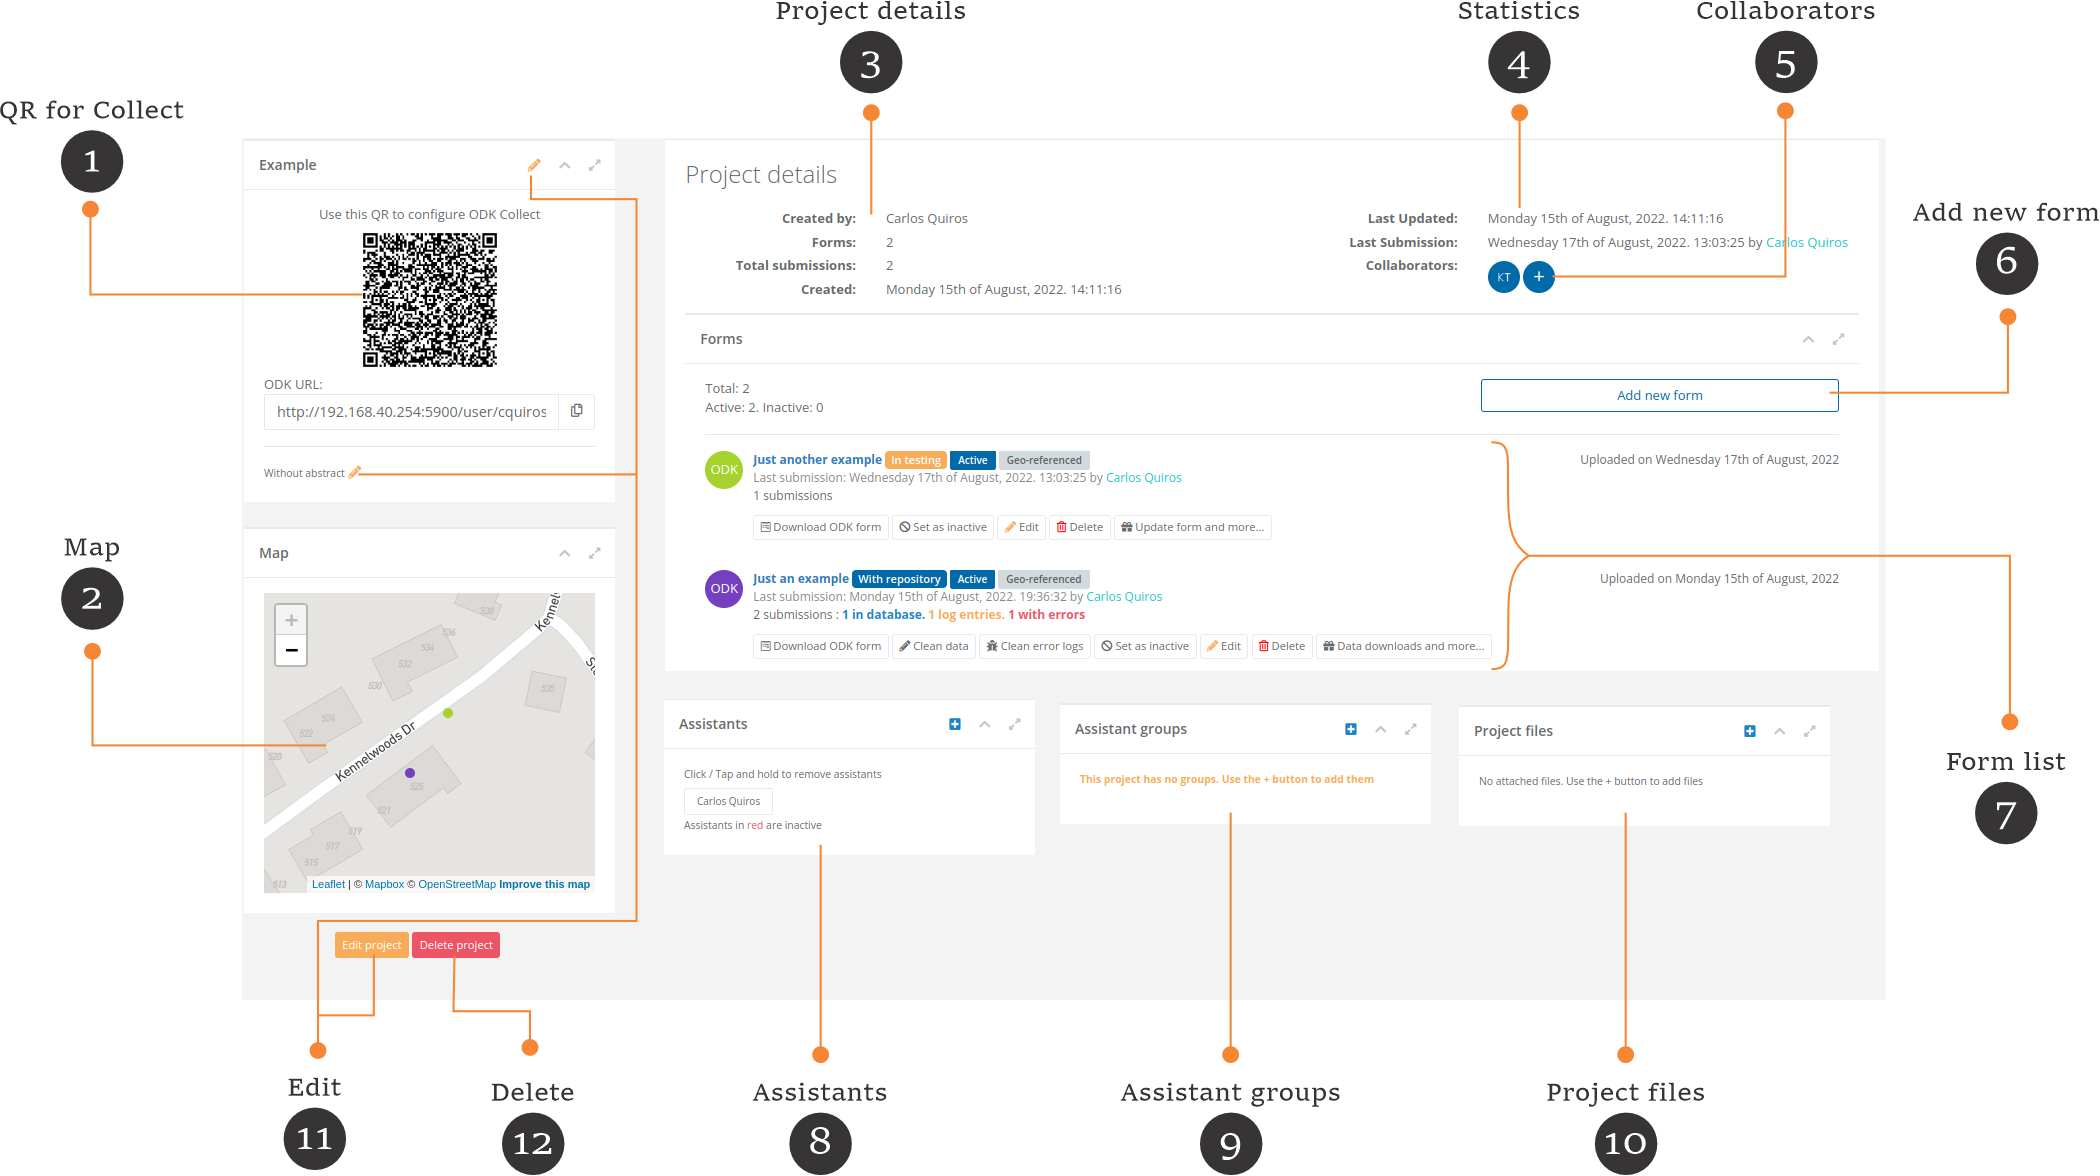
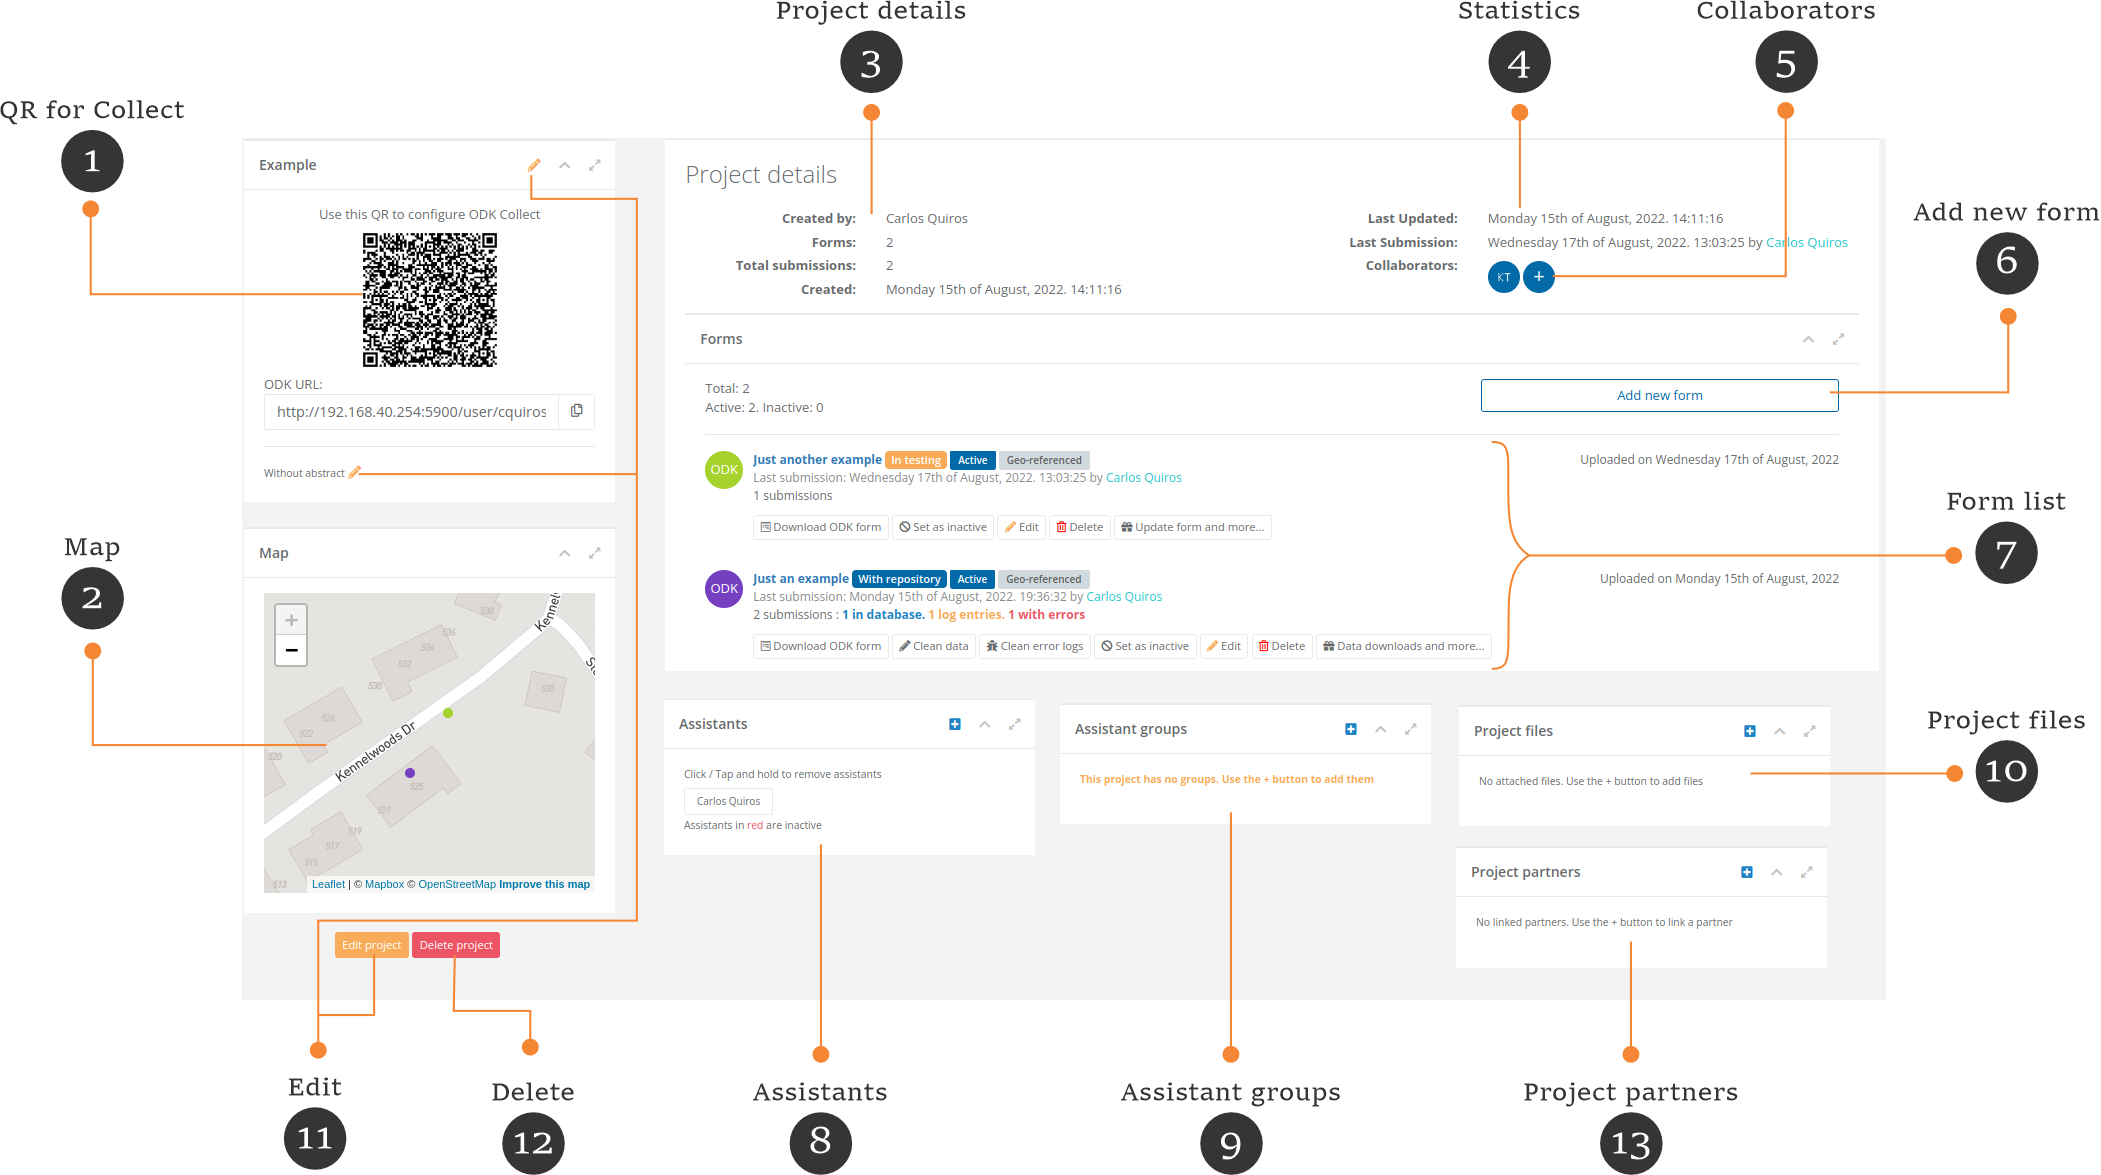
GitBook: [#22] Start of forms

diff --git a/docs/fundamentals/projects.md b/docs/fundamentals/projects.md
@@ -53,6 +53,11 @@ The project details page shows different elements that a project has. Here you c
 10. **Project files:** You can attach any kind of file to a project. For example, you can attach guidelines, policies, good practices, etc. These files are available to you and those collaborating with you on the project.
 11. **Edit**: Click on the "Edit" button to [edit ](projects.md#undefined)the details of the project. For example, to change its description or its abstract.
 12. **Delete**: Click on the "Delete" button to [delete](projects.md#undefined) the project. <mark style="color:red;">**Note: When you delete a project you will delete all its forms and submissions**</mark>**.** Deleting a project will create a log in the platform for auditing purposes.
+13. **Project partners**: You can link any number of [partners](partners.md) to a project. When you link a partner to a project they can access any data of any form inside the project. You can also link partners to individual forms to allow more limited access.
+
+{% hint style="info" %}
+Note on Partners: Partners access is a feature that is not present by default in a FormShare installation. See the "[Partner settings](../technical-pages/keyboard-shortcuts.md#partners)" for information about how to activate this feature.
+{% endhint %}
 
 ## Edit a project
 

diff --git a/docs/fundamentals/task-lists/README.md b/docs/fundamentals/task-lists/README.md
@@ -1,5 +1,7 @@
-# Task Lists
+# Forms
 
-{% hint style="info" %}
-**Good to know:** Splitting your product into fundamental concepts, objects, or areas can be a great way to let readers deep dive into the concepts that matter most to them.
-{% endhint %}
+FormShare is an advanced data management platform for [Open Data Kit](https://docs.getodk.org/form-design-intro/) (ODK). It works by uploading [ODK XLS/X forms](https://docs.getodk.org/xlsform/) (Excel format). Forms are allocated to one [Project](../projects.md), can have multiple assistants or assistant groups performing data collection or cleaning actions, and can be accessed by multiple [partners](../partners.md).
+
+## Upload forms
+
+You can upload a new form in&#x20;

diff --git a/docs/technical-pages/keyboard-shortcuts.md b/docs/technical-pages/keyboard-shortcuts.md
@@ -3,3 +3,9 @@
 FormShare can behave differently depending on the settings in the INI file. Here we describe such settings.
 
 ## Collaborators
+
+Collaborator settings
+
+## Partners
+
+Partner settings
